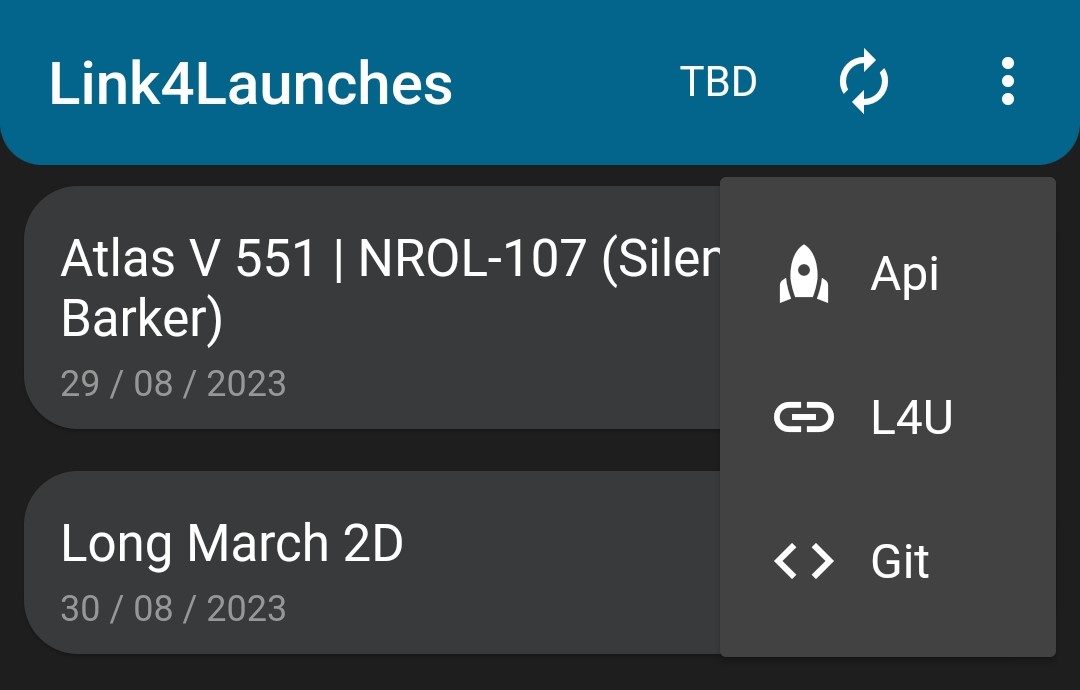
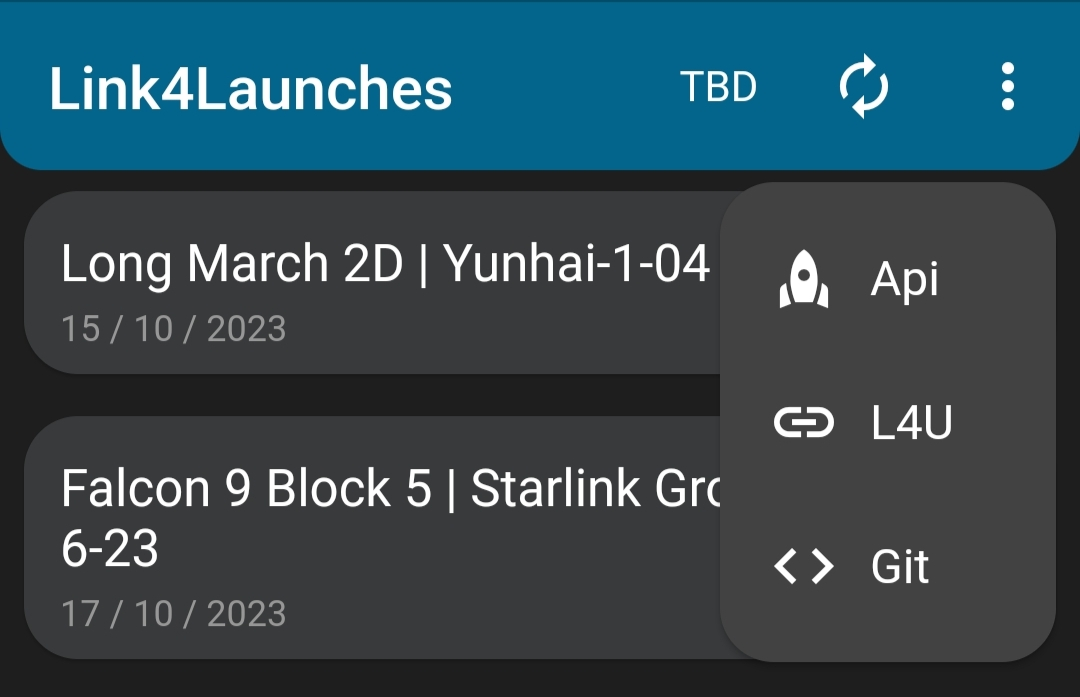
modified drop-down menu images in MORE_INFO.md

diff --git a/MORE_INFO.md b/MORE_INFO.md
@@ -205,11 +205,3 @@ This is the full 3th container:
 </div>
 
 ## TODO
-- [x] Separate ``LaunchStatus`` widget in 2 different widget, one for the big and one for the smaller version (+ modified doc and added missing);
-- [x] Improve custom AppBar code in app_bar.dart (make it a proper widget);
-- [x] Configure ``Updater`` to support links;
-- [x] Fix bug in_readJsonField that reads a null value and returns 'null' as a String;
-- [x] ~~Correct text error in api at convertGibberish~~ Method removed;
-- [x] Round drop-down menu corners;
-- [x] Convert json in order not to have fucked up text;
-- [x] Stop showing empty launch descrictions which only contain '?' (like almost every fk chinese rocket).
